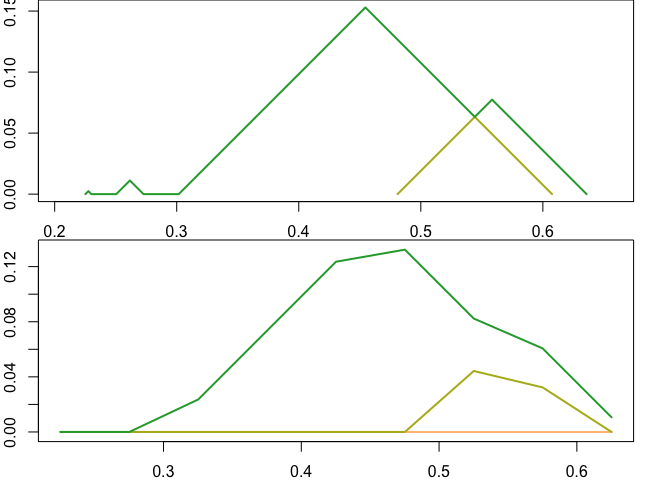
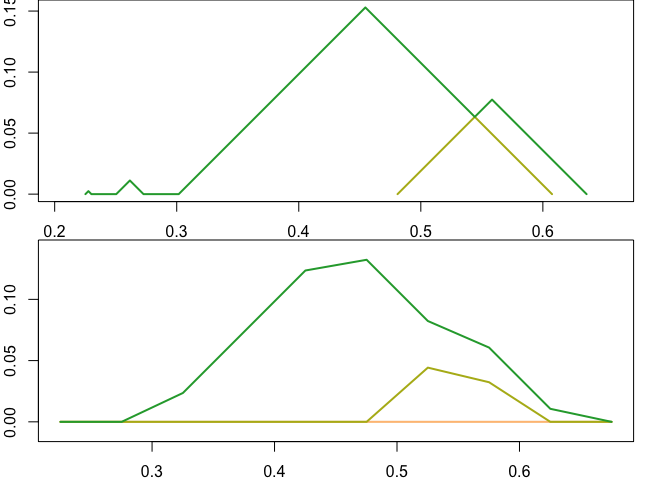
further debug delimit + complete readme

diff --git a/src/PersistenceLandscape.h b/src/PersistenceLandscape.h
@@ -625,6 +625,7 @@ PersistenceLandscape::PersistenceLandscape(
     
     // WARNING: Fundamental change from original PLT. -JCB
     // size_t numberOfBins = 2 * ((max_x - min_x) / dx) + 1;
+    // NOTE: grid extends at least rather than at most to `xmax`
     size_t numberOfBins = std::ceil((max_x - min_x) / dx) + 1;
     
     // The first element of a pair `std::pair< double, std::vector<double> >`
@@ -897,7 +898,9 @@ PersistenceLandscape delimitDiscreteLandscape(
     warning("Cannot delimit a discrete PL with a different resolution.");
   // ensure that new limits contain support
   std::pair<double, double> supp = pl.support();
-  if (min_x > supp.first + epsi || max_x < supp.second - epsi)
+  if (min_x- epsi > supp.first ||
+      // NOTE: grid extends at least rather than at most to `xmax`
+      max_x + pl.dx <= supp.second)
     stop("Cannot delimit to a domain that contains not the support.");
   // ensure that new minimum is almost on the grid
   if (

diff --git a/README.md b/README.md
@@ -191,7 +191,7 @@ b_ran <- pl_support(pl1)
 pl1d <- landscape(pd, degree = 1,
                   xmin = b_ran[[1L]], xmax = b_ran[[2L]], xby = 0.05)
 print(dim(pl1d$getInternal()))
-#> [1] 4 9 2
+#> [1]  4 10  2
 print(pl1d$getInternal())
 #> , , 1
 #> 
@@ -200,11 +200,11 @@ print(pl1d$getInternal())
 #> [2,] 0.2251884 0.2751884 0.3251884 0.3751884 0.4251884 0.4751884 0.5251884
 #> [3,] 0.2251884 0.2751884 0.3251884 0.3751884 0.4251884 0.4751884 0.5251884
 #> [4,] 0.2251884 0.2751884 0.3251884 0.3751884 0.4251884 0.4751884 0.5251884
-#>           [,8]      [,9]
-#> [1,] 0.5751884 0.6251884
-#> [2,] 0.5751884 0.6251884
-#> [3,] 0.5751884 0.6251884
-#> [4,] 0.5751884 0.6251884
+#>           [,8]      [,9]     [,10]
+#> [1,] 0.5751884 0.6251884 0.6751884
+#> [2,] 0.5751884 0.6251884 0.6751884
+#> [3,] 0.5751884 0.6251884 0.6751884
+#> [4,] 0.5751884 0.6251884 0.6751884
 #> 
 #> , , 2
 #> 
@@ -213,11 +213,11 @@ print(pl1d$getInternal())
 #> [2,]    0    0 0.00000000 0.00000000 0.000000 0.0000000 0.04425917 0.03232875
 #> [3,]    0    0 0.00000000 0.00000000 0.000000 0.0000000 0.00000000 0.00000000
 #> [4,]    0    0 0.00000000 0.00000000 0.000000 0.0000000 0.00000000 0.00000000
-#>            [,9]
-#> [1,] 0.01063412
-#> [2,] 0.00000000
-#> [3,] 0.00000000
-#> [4,] 0.00000000
+#>            [,9] [,10]
+#> [1,] 0.01063412     0
+#> [2,] 0.00000000     0
+#> [3,] 0.00000000     0
+#> [4,] 0.00000000     0
 ```
 
 Exactly computed landscapes can be converted to discrete landscape
@@ -362,8 +362,8 @@ pl1 %*% pl2_
 #> [1] 0.004917171
 ```
 
-(Note that the operations automatically reconcile the different ranges
-of the landscapes.)
+(Note that the landscapes are automatically delimited to a compatible
+domain.)
 
 ### Calculus
 
@@ -377,6 +377,7 @@ pl_integrate(pl1)
 #> [1] 0.02952152
 pl_integrate(pl2)
 #> [1] 0.07295263
+# 1-integral obeys linearity
 pl_integrate(pl1) * 2 - pl_integrate(pl2)
 #> [1] -0.01390959
 pl_integrate(pl1 * 2 - pl2)
@@ -403,8 +404,7 @@ pl_distance(pl1 * 2, pl2, p = 2)
 #> [1] 0.05041889
 
 # using the infinity norm
-pl_integrate(pl_abs(pl1 * 2 - pl2), p = Inf) # nope!
-#> [1] 0.7595389
+# FIXME: Values do not agree.
 pl_max(pl_abs(pl1 * 2 - pl2))
 #> [1] 0.1178478
 pl_distance(pl1 * 2, pl2, p = Inf)
@@ -426,7 +426,111 @@ pl_norm(pl1)
 
 ### Statistical Analysis
 
-TODO: means & hypothesis testing
+Finally, **plt** implements the two hypothesis tests described in the
+original paper. To illustrate, we first generate lists of landscapes for
+samples from two spaces:
+
+``` r
+# samples of landscapes from lemniscates
+pl1s <- replicate(6, {
+  pc <- tdaunif::sample_lemniscate_gerono(60, sd = .1)
+  pd <- ripserr::vietoris_rips(pc, dim = 1, threshold = 2, p = 2)
+  landscape(pd, degree = 1, xby = .01)
+})
+#> Warning in vietoris_rips.matrix(pc, dim = 1, threshold = 2, p = 2): `dim`
+#> parameter has been deprecated; use `max_dim` instead.
+
+#> Warning in vietoris_rips.matrix(pc, dim = 1, threshold = 2, p = 2): `dim`
+#> parameter has been deprecated; use `max_dim` instead.
+
+#> Warning in vietoris_rips.matrix(pc, dim = 1, threshold = 2, p = 2): `dim`
+#> parameter has been deprecated; use `max_dim` instead.
+
+#> Warning in vietoris_rips.matrix(pc, dim = 1, threshold = 2, p = 2): `dim`
+#> parameter has been deprecated; use `max_dim` instead.
+
+#> Warning in vietoris_rips.matrix(pc, dim = 1, threshold = 2, p = 2): `dim`
+#> parameter has been deprecated; use `max_dim` instead.
+
+#> Warning in vietoris_rips.matrix(pc, dim = 1, threshold = 2, p = 2): `dim`
+#> parameter has been deprecated; use `max_dim` instead.
+# samples of landscapes from circles
+pl2s <- replicate(8, {
+  pc <- tdaunif::sample_circle(60, sd = .1) / 2
+  pd <- ripserr::vietoris_rips(pc, dim = 1, threshold = 2, p = 2)
+  landscape(pd, degree = 1, xby = .01)
+})
+#> Warning in vietoris_rips.matrix(pc, dim = 1, threshold = 2, p = 2): `dim`
+#> parameter has been deprecated; use `max_dim` instead.
+
+#> Warning in vietoris_rips.matrix(pc, dim = 1, threshold = 2, p = 2): `dim`
+#> parameter has been deprecated; use `max_dim` instead.
+
+#> Warning in vietoris_rips.matrix(pc, dim = 1, threshold = 2, p = 2): `dim`
+#> parameter has been deprecated; use `max_dim` instead.
+
+#> Warning in vietoris_rips.matrix(pc, dim = 1, threshold = 2, p = 2): `dim`
+#> parameter has been deprecated; use `max_dim` instead.
+
+#> Warning in vietoris_rips.matrix(pc, dim = 1, threshold = 2, p = 2): `dim`
+#> parameter has been deprecated; use `max_dim` instead.
+
+#> Warning in vietoris_rips.matrix(pc, dim = 1, threshold = 2, p = 2): `dim`
+#> parameter has been deprecated; use `max_dim` instead.
+
+#> Warning in vietoris_rips.matrix(pc, dim = 1, threshold = 2, p = 2): `dim`
+#> parameter has been deprecated; use `max_dim` instead.
+
+#> Warning in vietoris_rips.matrix(pc, dim = 1, threshold = 2, p = 2): `dim`
+#> parameter has been deprecated; use `max_dim` instead.
+```
+
+An inspection of the mean landscapes makes clear that they are distinct:
+
+``` r
+# average landscape from each sample
+par(mfcol = c(2L, 1L), mar = c(2, 2, 0, 2))
+plot(pl_mean(pl1s))
+plot(pl_mean(pl2s))
+```
+
+![](man/figures/unnamed-chunk-19-1.png)<!-- -->
+
+``` r
+par(mfrow = c(1L, 1L), mar = c(5.1, 4.1, 4.1, 2.1))
+```
+
+However, the two hypothesis tests use different procedures and rely on
+different test statistics, so one may be more effective than another.
+For convenience, both methods return objects of class `'htest'` for
+convenient printing:
+
+``` r
+# z-test of difference in integrals of first level
+pl_z_test(pl1s, pl2s)
+#> 
+#>  z-test
+#> 
+#> data:  
+#> z = -2.3584, df = 12, p-value = 0.9908
+#> alternative hypothesis: true difference in means is not equal to 0
+#> 95 percent confidence interval:
+#>  -0.06283511 -0.01120004
+#> sample estimates:
+#>  mean of x  mean of y 
+#> 0.02664640 0.06366397
+# permutation test of pairwise distances between landscapes
+pl_perm_test(pl1s, pl2s)
+#> 
+#>  permutation test
+#> 
+#> data:  
+#> p-value < 2.2e-16
+#> alternative hypothesis: true distance between mean landscapes is greater than 0
+#> sample estimates:
+#> distance between mean landscapes 
+#>                       0.06631177
+```
 
 ## Acknowledgments
 
